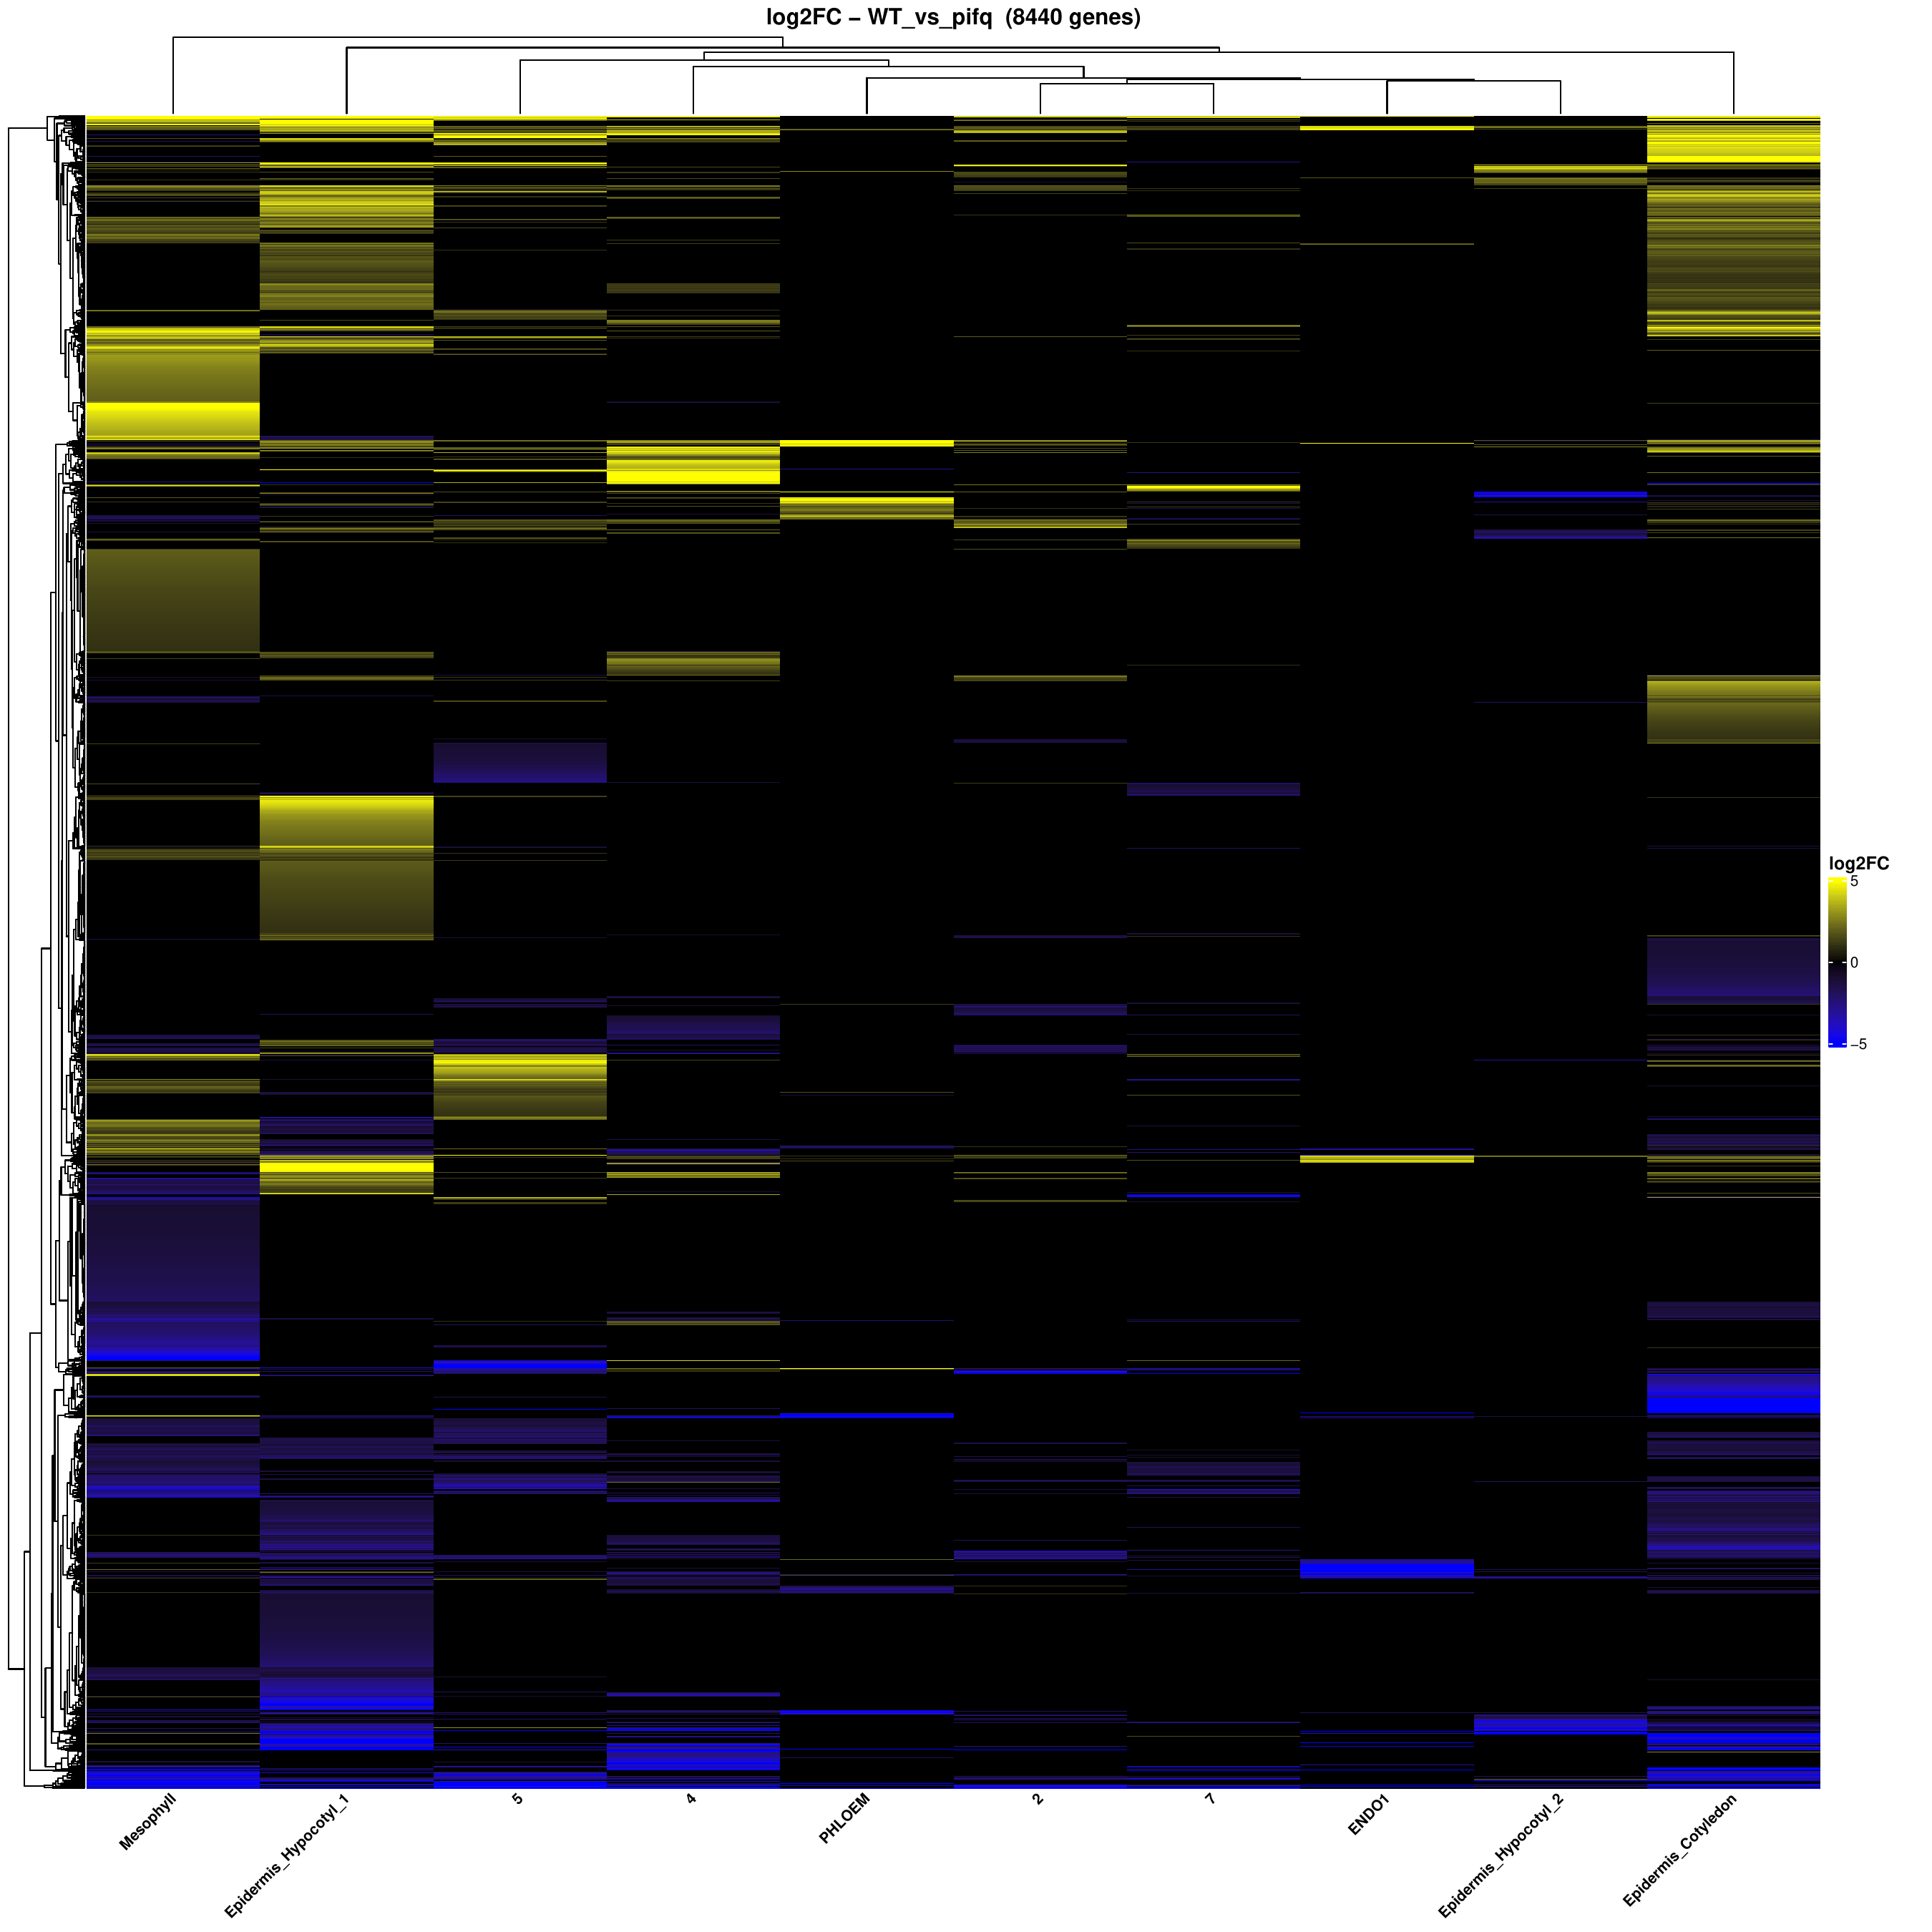
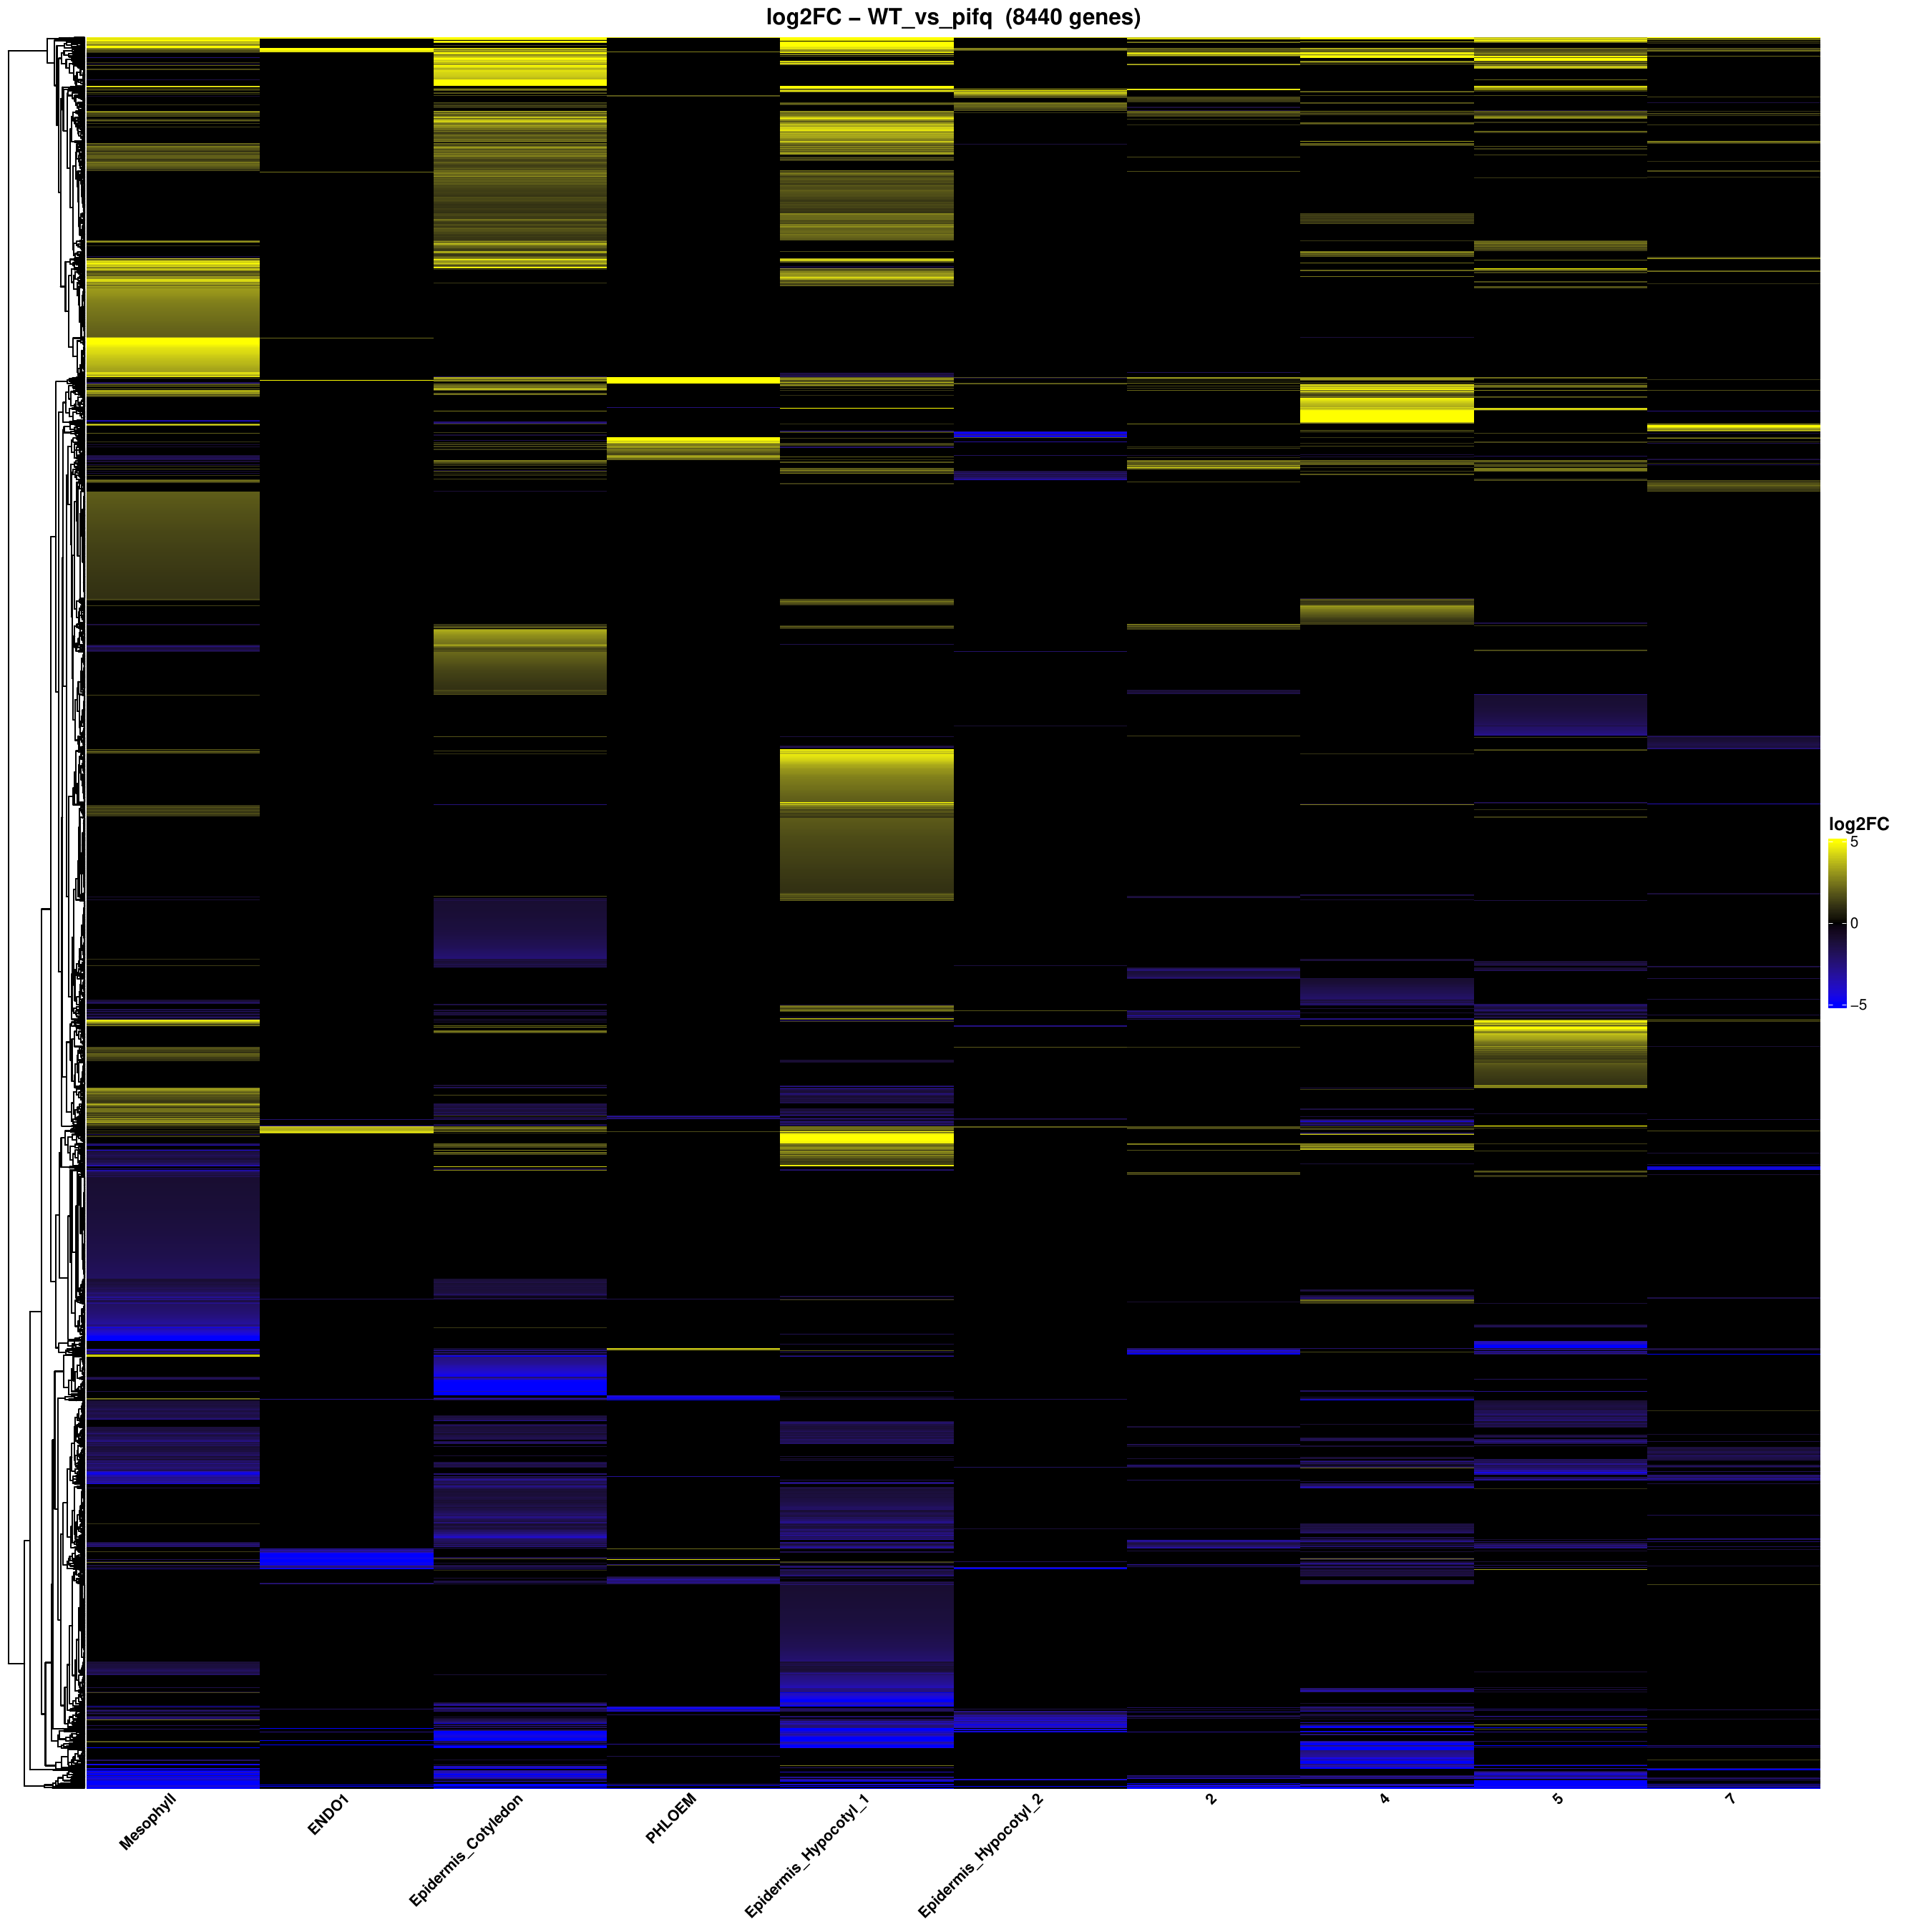
Remove module outputs from WT pifq methods

diff --git a/reports/methods_paper_chapter2_wt_pifq.html b/reports/methods_paper_chapter2_wt_pifq.html
@@ -441,12 +441,14 @@ message(&quot;\n✓ SECTION 18 COMPLETE: GO enrichment complete&quot;)</code></p
   <section class="page-section">
     <h1>Section 19 - Log2FC Heatmap</h1>
     <div class="code-wrap"><div class="code-label">R</div><pre><code>heatmap_limits &lt;- c(-5, 5)
+heatmap_marker_file &lt;- file.path(DATA_DIR, &quot;biblio_marks_custom.txt&quot;)
 
 build_logfc_heatmap(
   logfc_table  = diff_tables$logfc,
   contrast_tag = volcano_tag,
   output_dir   = file.path(dir_06, volcano_tag),
-  limits       = heatmap_limits
+  limits       = heatmap_limits,
+  marker_file  = heatmap_marker_file
 )
 
 
@@ -456,16 +458,15 @@ message(&quot;\n✓ SECTION 19 COMPLETE: Log2FC heatmap saved&quot;)</code></pre
   </section>
 
   <section class="page-section">
-    <h1>Section 20 - Coexpression Network</h1>
+    <h1>Section 20 - hdWGCNA TOM Network</h1>
     <p>
-      The hdWGCNA section is preserved from the original Chapter 2 structure.
-      It uses the significant-gene table generated in Section 19.
+      hdWGCNA is used here only to build the TOM co-expression network from
+      significant genes. The report does not include extra hdWGCNA diagnostic
+      plots; the final network is colored only by DE direction.
     </p>
     <div class="code-wrap"><div class="code-label">R</div><pre><code>wgcna_name  &lt;- &quot;unified&quot;
 n_metacells     &lt;- 50
 soft_power      &lt;- NULL
-min_module_size &lt;- 20
-deep_split      &lt;- 2
 
 run_unified_hdwgcna(
   seurat_obj      = pbmc_harmony,
@@ -475,32 +476,40 @@ run_unified_hdwgcna(
   sample_col      = &quot;orig.ident&quot;,
   wgcna_name      = wgcna_name,
   n_metacells     = n_metacells,
-  soft_power      = soft_power,
-  min_module_size = min_module_size,
-  deep_split      = deep_split
+  soft_power      = soft_power
 )
 
-message(&quot;\n\u2713 SECTION 20 COMPLETE: hdWGCNA co-expression networks saved&quot;)</code></pre></div>
+message(&quot;\n\u2713 SECTION 20 COMPLETE: hdWGCNA TOM network saved&quot;)</code></pre></div>
   </section>
 
   <section class="page-section">
-    <h1>Section 21 - Network Export and Visualization</h1>
+    <h1>Section 21 - TOM Edge Export</h1>
+    <p>
+      The TOM network is exported as an edge table for the DE-direction network
+      in Section 21b. This step only writes edge and node tables.
+    </p>
     <div class="code-wrap"><div class="code-label">R</div><pre><code>tom_threshold &lt;- 0.2
-n_hub_label   &lt;- 5
 
-plot_hdwgcna_network(
+export_hdwgcna_tom_edges(
   hdwgcna_dir   = dir_08,
   output_dir    = dir_08,
   tom_threshold = tom_threshold,
-  n_hub_label   = n_hub_label
+  wgcna_name    = wgcna_name
 )
 
-message(&quot;\n✓ SECTION 21 COMPLETE: Network files and plots saved&quot;)</code></pre></div>
-    <figure class="network"><img src="assets/wgcna_network_generic.png" alt="Representative hdWGCNA co-expression network exported by Section 21."><figcaption>Representative hdWGCNA co-expression network exported by Section 21.</figcaption></figure>
+message(&quot;\n✓ SECTION 21 COMPLETE: TOM edge table saved&quot;)</code></pre></div>
   </section>
 
   <section class="page-section">
     <h1>Section 21b - TF Coexpression Network</h1>
+    <p>
+      This is the hdWGCNA-derived network visualization used in the report:
+      edges come from the hdWGCNA TOM network, but nodes are colored by
+      differential-expression direction. Red marks
+      genes consistently up-regulated, blue marks consistently down-regulated,
+      and grey marks mixed direction across cell types. TF-containing edges are
+      retained using the AtTFDB locus list.
+    </p>
     <div class="code-wrap"><div class="code-label">R</div><pre><code>tom_threshold_tf &lt;- 0.2
 n_hub_label_tf   &lt;- 15
 
@@ -523,6 +532,7 @@ plot_tf_de_network(net_tf,
                    output_height = 22)
 
 message(&quot;\n✓ SECTION 21b COMPLETE: TF network saved to network_tf_DE_direction.pdf&quot;)</code></pre></div>
+    <figure class="network"><img src="assets/wgcna_network_tf_de-1.png" alt="hdWGCNA TF co-expression network colored by differential-expression direction."><figcaption>hdWGCNA TF co-expression network colored by differential-expression direction.</figcaption></figure>
   </section>
 </body>
 </html>

diff --git a/reports/methods_paper_wt_pifq_chapter1_2.html b/reports/methods_paper_wt_pifq_chapter1_2.html
@@ -1258,12 +1258,14 @@ message(&quot;\n✓ SECTION 18 COMPLETE: GO enrichment complete&quot;)</code></p
   <section class="page-section">
     <h1>Section 19 - Log2FC Heatmap</h1>
     <div class="code-wrap"><div class="code-label">R</div><pre><code>heatmap_limits &lt;- c(-5, 5)
+heatmap_marker_file &lt;- file.path(DATA_DIR, &quot;biblio_marks_custom.txt&quot;)
 
 build_logfc_heatmap(
   logfc_table  = diff_tables$logfc,
   contrast_tag = volcano_tag,
   output_dir   = file.path(dir_06, volcano_tag),
-  limits       = heatmap_limits
+  limits       = heatmap_limits,
+  marker_file  = heatmap_marker_file
 )
 
 
@@ -1273,16 +1275,15 @@ message(&quot;\n✓ SECTION 19 COMPLETE: Log2FC heatmap saved&quot;)</code></pre
   </section>
 
   <section class="page-section">
-    <h1>Section 20 - Coexpression Network</h1>
+    <h1>Section 20 - hdWGCNA TOM Network</h1>
     <p>
-      The hdWGCNA section is preserved from the original pseudobulk workflow structure.
-      It uses the significant-gene table generated in Section 19.
+      hdWGCNA is used here only to build the TOM co-expression network from
+      significant genes. The report does not include extra hdWGCNA diagnostic
+      plots; the final network is colored only by DE direction.
     </p>
     <div class="code-wrap"><div class="code-label">R</div><pre><code>wgcna_name  &lt;- &quot;unified&quot;
 n_metacells     &lt;- 50
 soft_power      &lt;- NULL
-min_module_size &lt;- 20
-deep_split      &lt;- 2
 
 run_unified_hdwgcna(
   seurat_obj      = pbmc_harmony,
@@ -1292,32 +1293,40 @@ run_unified_hdwgcna(
   sample_col      = &quot;orig.ident&quot;,
   wgcna_name      = wgcna_name,
   n_metacells     = n_metacells,
-  soft_power      = soft_power,
-  min_module_size = min_module_size,
-  deep_split      = deep_split
+  soft_power      = soft_power
 )
 
-message(&quot;\n\u2713 SECTION 20 COMPLETE: hdWGCNA co-expression networks saved&quot;)</code></pre></div>
+message(&quot;\n\u2713 SECTION 20 COMPLETE: hdWGCNA TOM network saved&quot;)</code></pre></div>
   </section>
 
   <section class="page-section">
-    <h1>Section 21 - Network Export and Visualization</h1>
+    <h1>Section 21 - TOM Edge Export</h1>
+    <p>
+      The TOM network is exported as an edge table for the DE-direction network
+      in Section 21b. This step only writes edge and node tables.
+    </p>
     <div class="code-wrap"><div class="code-label">R</div><pre><code>tom_threshold &lt;- 0.2
-n_hub_label   &lt;- 5
 
-plot_hdwgcna_network(
+export_hdwgcna_tom_edges(
   hdwgcna_dir   = dir_08,
   output_dir    = dir_08,
   tom_threshold = tom_threshold,
-  n_hub_label   = n_hub_label
+  wgcna_name    = wgcna_name
 )
 
-message(&quot;\n✓ SECTION 21 COMPLETE: Network files and plots saved&quot;)</code></pre></div>
-    <figure class="network"><img src="assets/wgcna_network_generic.png" alt="Representative hdWGCNA co-expression network exported by Section 21."><figcaption>Representative hdWGCNA co-expression network exported by Section 21.</figcaption></figure>
+message(&quot;\n✓ SECTION 21 COMPLETE: TOM edge table saved&quot;)</code></pre></div>
   </section>
 
   <section class="page-section">
     <h1>Section 21b - TF Coexpression Network</h1>
+    <p>
+      This is the hdWGCNA-derived network visualization used in the report:
+      edges come from the hdWGCNA TOM network, but nodes are colored by
+      differential-expression direction. Red marks
+      genes consistently up-regulated, blue marks consistently down-regulated,
+      and grey marks mixed direction across cell types. TF-containing edges are
+      retained using the AtTFDB locus list.
+    </p>
     <div class="code-wrap"><div class="code-label">R</div><pre><code>tom_threshold_tf &lt;- 0.2
 n_hub_label_tf   &lt;- 15
 
@@ -1340,6 +1349,7 @@ plot_tf_de_network(net_tf,
                    output_height = 22)
 
 message(&quot;\n✓ SECTION 21b COMPLETE: TF network saved to network_tf_DE_direction.pdf&quot;)</code></pre></div>
+    <figure class="network"><img src="assets/wgcna_network_tf_de-1.png" alt="hdWGCNA TF co-expression network colored by differential-expression direction."><figcaption>hdWGCNA TF co-expression network colored by differential-expression direction.</figcaption></figure>
   </section>
 <section class="page-section versions-section">
   <h1>Supplementary software versions</h1>

diff --git a/reports/build_methods_chapter2_wt_pifq.py b/reports/build_methods_chapter2_wt_pifq.py
@@ -415,23 +415,36 @@ def build() -> str:
   </section>
 
   <section class="page-section">
-    <h1>Section 20 - Coexpression Network</h1>
+    <h1>Section 20 - hdWGCNA TOM Network</h1>
     <p>
-      The hdWGCNA section is preserved from the original Chapter 2 structure.
-      It uses the significant-gene table generated in Section 19.
+      hdWGCNA is used here only to build the TOM co-expression network from
+      significant genes. The report does not include extra hdWGCNA diagnostic
+      plots; the final network is colored only by DE direction.
     </p>
     {code_block("R", s20)}
   </section>
 
   <section class="page-section">
-    <h1>Section 21 - Network Export and Visualization</h1>
+    <h1>Section 21 - TOM Edge Export</h1>
+    <p>
+      The TOM network is exported as an edge table for the DE-direction network
+      in Section 21b. This step only writes edge and node tables.
+    </p>
     {code_block("R", s21)}
-    {img("wgcna_network_generic.png", "Representative hdWGCNA co-expression network exported by Section 21.", "network")}
   </section>
 
   <section class="page-section">
     <h1>Section 21b - TF Coexpression Network</h1>
+    <p>
+      This is the hdWGCNA-derived network visualization used in the report:
+      edges come from the hdWGCNA TOM network, but nodes are colored by
+      differential-expression direction. Red marks
+      genes consistently up-regulated, blue marks consistently down-regulated,
+      and grey marks mixed direction across cell types. TF-containing edges are
+      retained using the AtTFDB locus list.
+    </p>
     {code_block("R", s21b)}
+    {img("wgcna_network_tf_de-1.png", "hdWGCNA TF co-expression network colored by differential-expression direction.", "network")}
   </section>
 </body>
 </html>